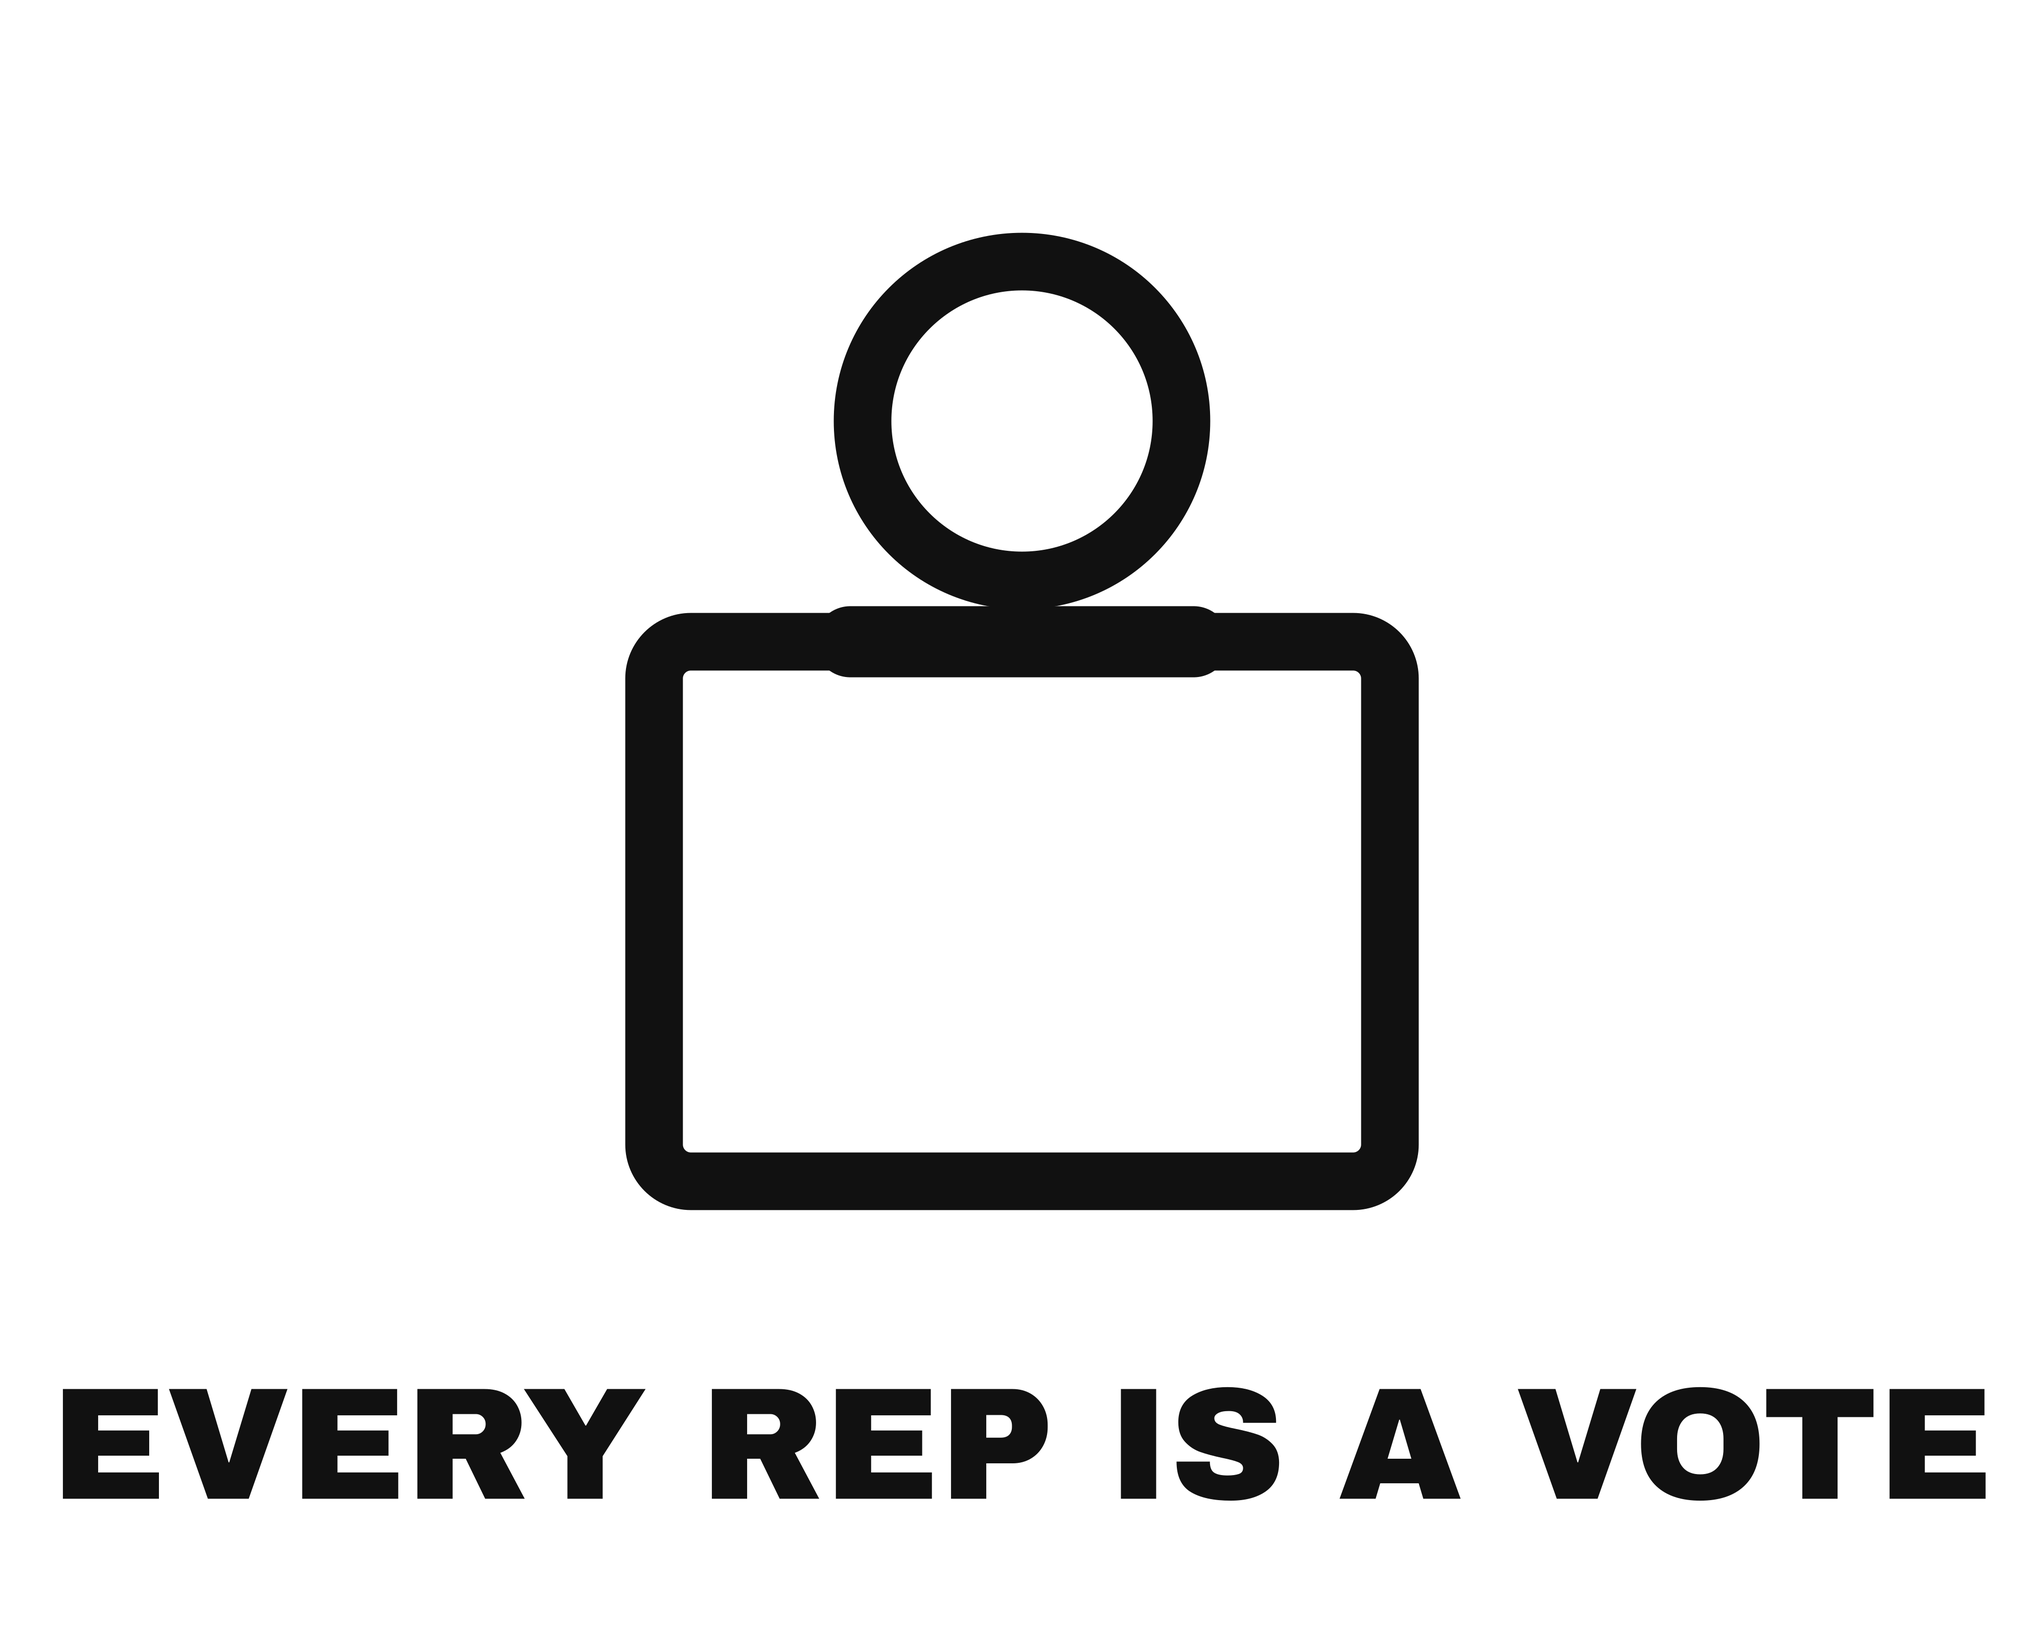
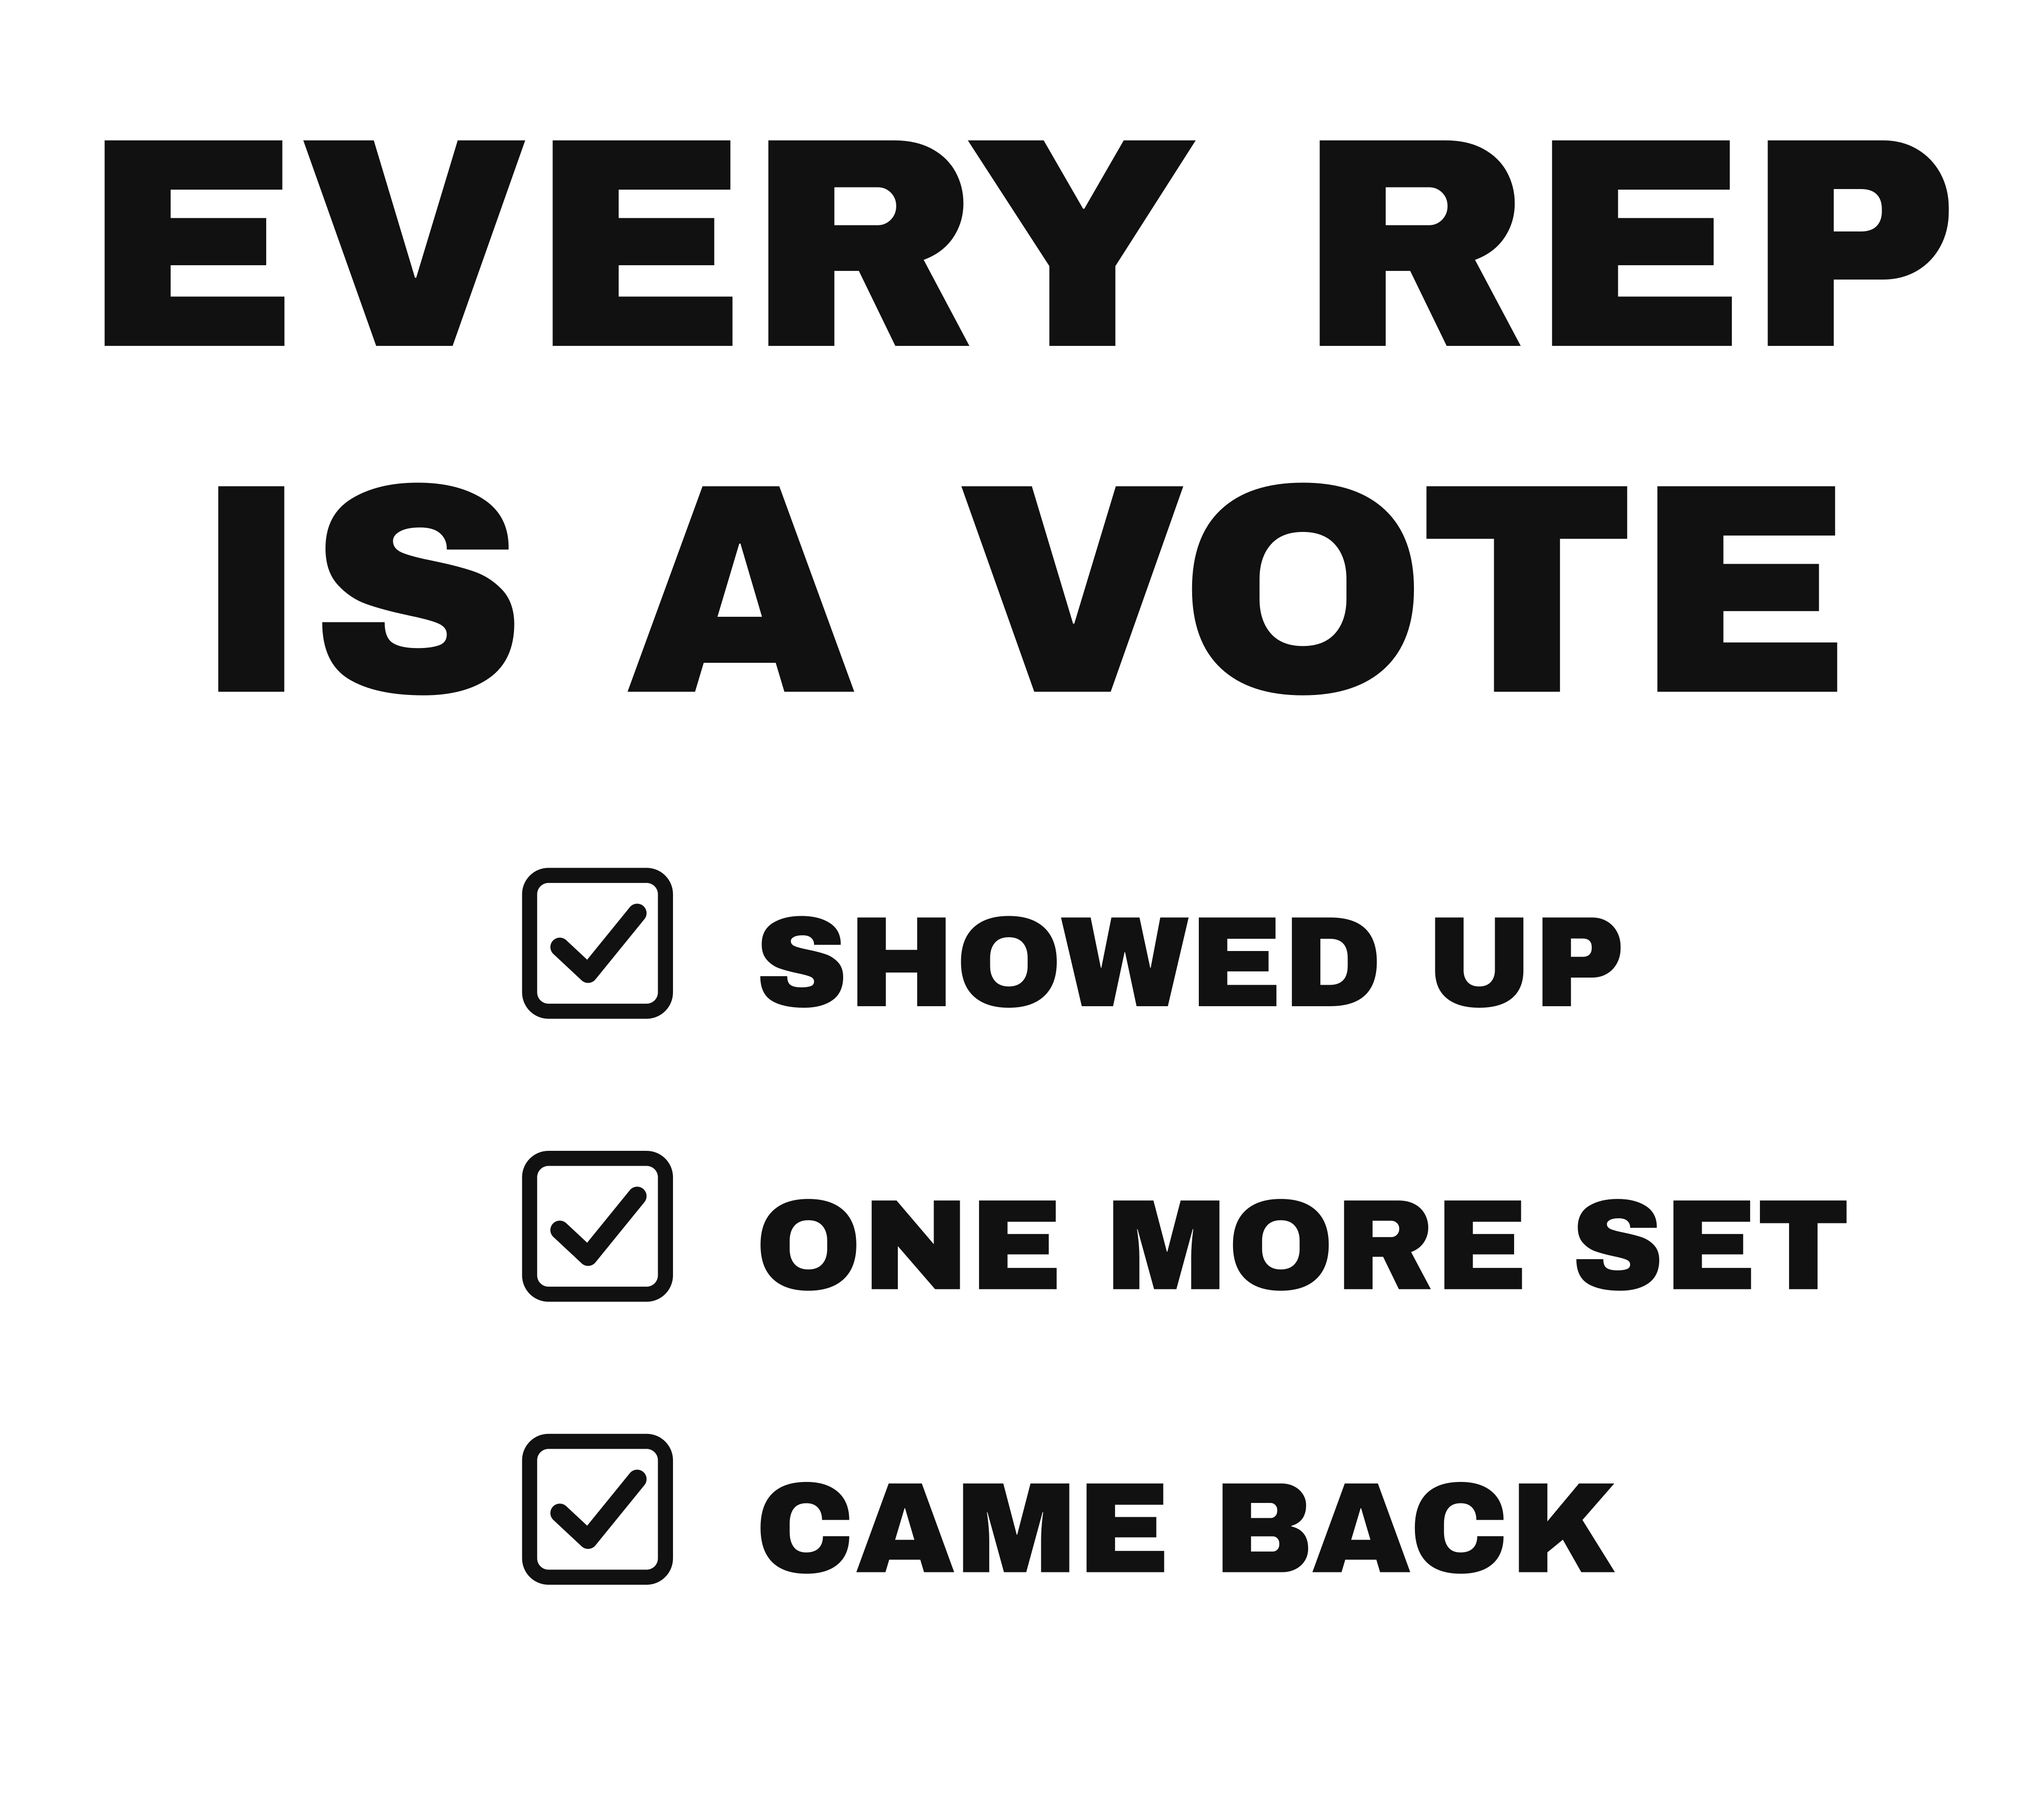
Redraw the two weak backs: the ballot and the bar
EVERY REP IS A VOTE goes type-first with an actual ballot under it,
three boxes checked: SHOWED UP, ONE MORE SET, CAME BACK. NOBODY splits
around a much heavier loaded bar: NOBODY, is going to lift it, the bar,
FOR YOU. The shared bar mark gains weight everywhere it appears. Print
masters regenerated to match.

diff --git a/index.html b/index.html
@@ -40,18 +40,17 @@
         <path d="M26.5 43.5v13 M73.5 43.5v13" stroke-width="5"/>
       </g>
     </g>
-    <!-- INC-018/023 mark: a loaded bar on the floor, drawn in one weight of line -->
+    <!-- INC-018/020/023 mark: a loaded bar on the floor, one heavy line -->
     <g id="barLine" fill="none" stroke="currentColor" stroke-linecap="round">
-      <path d="M12 20 H188" stroke-width="3"/>
-      <path d="M52 6 V34 M148 6 V34" stroke-width="7"/>
-      <path d="M64 9 V31 M136 9 V31" stroke-width="5"/>
-      <path d="M74 14 V26 M126 14 V26" stroke-width="3.5"/>
+      <path d="M12 20 H188" stroke-width="5.5"/>
+      <path d="M52 5 V35 M148 5 V35" stroke-width="11"/>
+      <path d="M65 9 V31 M135 9 V31" stroke-width="8"/>
+      <path d="M76 14 V26 M124 14 V26" stroke-width="5"/>
     </g>
-    <!-- INC-016 mark: the ballot box that takes plates -->
-    <g id="ballot" fill="none" stroke="currentColor" stroke-linecap="round">
-      <circle cx="50" cy="26" r="13" stroke-width="4"/>
-      <path d="M36 44 h28" stroke-width="5"/>
-      <rect x="20" y="44" width="60" height="44" rx="3" stroke-width="4"/>
+    <!-- INC-016 mark: the checked ballot box -->
+    <g id="vcheck" fill="none" stroke="currentColor" stroke-linecap="round" stroke-linejoin="round">
+      <rect x="14" y="14" width="72" height="72" rx="10" stroke-width="8"/>
+      <path d="M30 52 L45 66 L71 34" stroke-width="10"/>
     </g>
   </defs>
 </svg>
@@ -588,8 +587,8 @@
 
     <article class="prod reveal-up" data-view="back" data-sku="INC-016" data-name="EVERY REP IS A VOTE" data-price="38">
       <div class="prod__views">
-        <div class="prod__view prod__view--front"><svg class="tee" viewBox="0 0 400 460" role="img" aria-label="Washed blue tee, front: a ballot box taking a weight plate, on the left chest"><ellipse class="tsh" cx="200" cy="367" rx="156" ry="13"/><image href="assets/shirts/washed-blue_front.webp" x="0" y="0" width="400" height="460"/><g class="pl"><svg x="220.5" y="108.9" width="63.8" height="63.8" viewBox="0 0 100 100" style="color:#f5f4f1"><use href="#ballot"/></svg></g></svg><span class="prod__face" aria-hidden="true">FRONT</span></div>
-        <div class="prod__view prod__view--back"><svg class="tee" viewBox="0 0 400 460" role="img" aria-label="Washed blue tee, back: a large ballot box taking a plate, every rep is a vote beneath"><ellipse class="tsh" cx="200" cy="369" rx="152" ry="13"/><image href="assets/shirts/washed-blue_back.webp" x="0" y="0" width="400" height="460"/><g class="pl"><svg x="156.8" y="112" width="85" height="85" viewBox="0 0 100 100" style="color:#f5f4f1"><use href="#ballot"/></svg><text class="pr" x="199.3" y="226" font-size="12" text-anchor="middle">EVERY REP IS A VOTE</text></g></svg><span class="prod__face" aria-hidden="true">BACK</span></div>
+        <div class="prod__view prod__view--front"><svg class="tee" viewBox="0 0 400 460" role="img" aria-label="Washed blue tee, front: a bold checked ballot box on the left chest with the line beneath"><ellipse class="tsh" cx="200" cy="367" rx="156" ry="13"/><image href="assets/shirts/washed-blue_front.webp" x="0" y="0" width="400" height="460"/><g class="pl"><svg x="223.2" y="111.6" width="58.5" height="58.5" viewBox="0 0 100 100" style="color:#f5f4f1"><use href="#vcheck"/></svg><text class="pr" x="252.4" y="182" font-size="5.5" letter-spacing="0.5" text-anchor="middle">EVERY REP IS A VOTE</text></g></svg><span class="prod__face" aria-hidden="true">FRONT</span></div>
+        <div class="prod__view prod__view--back"><svg class="tee" viewBox="0 0 400 460" role="img" aria-label="Washed blue tee, back: EVERY REP IS A VOTE in heavy type over a ballot of three checked boxes"><ellipse class="tsh" cx="200" cy="369" rx="152" ry="13"/><image href="assets/shirts/washed-blue_back.webp" x="0" y="0" width="400" height="460"/><g class="pl"><text class="pr" x="199.3" y="128" font-size="23" text-anchor="middle">EVERY REP</text><text class="pr" x="199.3" y="158" font-size="23" text-anchor="middle">IS A VOTE</text><svg x="146.3" y="178" width="14" height="14" viewBox="0 0 100 100" style="color:#f5f4f1"><use href="#vcheck"/></svg><text class="pr" x="166.3" y="189" font-size="10.5">SHOWED UP</text><svg x="146.3" y="200" width="14" height="14" viewBox="0 0 100 100" style="color:#f5f4f1"><use href="#vcheck"/></svg><text class="pr" x="166.3" y="211" font-size="10.5">ONE MORE SET</text><svg x="146.3" y="222" width="14" height="14" viewBox="0 0 100 100" style="color:#f5f4f1"><use href="#vcheck"/></svg><text class="pr" x="166.3" y="233" font-size="10.5">CAME BACK</text></g></svg><span class="prod__face" aria-hidden="true">BACK</span></div>
         <div class="prod__flip" role="group" aria-label="View side">
           <button type="button" data-face="front" aria-pressed="false">FRONT</button>
           <button class="is-on" type="button" data-face="back" aria-pressed="true">BACK</button>
@@ -600,8 +599,8 @@
         <h3 class="prod__name">EVERY REP IS A VOTE</h3>
         <p class="prod__why">You don&rsquo;t vote once a year in here. Every rep counts toward who you&rsquo;re becoming.</p>
         <ul class="prod__spec">
-      <li><b>FRONT</b>ballot &amp; plate mark &middot; left chest &middot; 6&#8243;</li>
-      <li><b>BACK</b>the mark &middot; 8&#8243; &middot; the line beneath</li>
+      <li><b>FRONT</b>checked-box mark &middot; left chest &middot; 5.5&#8243;</li>
+      <li><b>BACK</b>the line &middot; 13&#8243; &middot; three votes checked beneath</li>
         </ul>
         <div class="prod__size" role="group" aria-label="Choose size"><button type="button" aria-pressed="false">S</button><button type="button" aria-pressed="true" class="is-on">M</button><button type="button" aria-pressed="false">L</button><button type="button" aria-pressed="false">XL</button><button type="button" aria-pressed="false">2X</button><button type="button" aria-pressed="false">3X</button></div>
         <div class="prod__foot">
@@ -638,8 +637,8 @@
 
     <article class="prod reveal-up" data-view="back" data-sku="INC-018" data-name="NOBODY IS GOING TO LIFT IT FOR YOU" data-price="38">
       <div class="prod__views">
-        <div class="prod__view prod__view--front"><svg class="tee" viewBox="0 0 400 460" role="img" aria-label="Washed blue tee, front: a small line drawing of a loaded barbell over the heart"><ellipse class="tsh" cx="200" cy="367" rx="156" ry="13"/><image href="assets/shirts/washed-blue_front.webp" x="0" y="0" width="400" height="460"/><g class="pl"><svg x="222.4" y="131" width="60" height="12" viewBox="0 0 200 40" style="color:#f5f4f1"><use href="#barLine"/></svg></g></svg><span class="prod__face" aria-hidden="true">FRONT</span></div>
-        <div class="prod__view prod__view--back"><svg class="tee" viewBox="0 0 400 460" role="img" aria-label="Washed blue tee, back: a loaded barbell in one line, nobody is going to lift it for you beneath"><ellipse class="tsh" cx="200" cy="369" rx="152" ry="13"/><image href="assets/shirts/washed-blue_back.webp" x="0" y="0" width="400" height="460"/><g class="pl"><svg x="134.3" y="126" width="130" height="26" viewBox="0 0 200 40" style="color:#f5f4f1"><use href="#barLine"/></svg><text class="pr" x="199.3" y="182" font-size="13" text-anchor="middle">NOBODY IS GOING</text><text class="pr" x="199.3" y="200" font-size="13" text-anchor="middle">TO LIFT IT</text><text class="pr" x="199.3" y="218" font-size="13" text-anchor="middle">FOR YOU.</text></g></svg><span class="prod__face" aria-hidden="true">BACK</span></div>
+        <div class="prod__view prod__view--front"><svg class="tee" viewBox="0 0 400 460" role="img" aria-label="Washed blue tee, front: a heavy line drawing of a loaded barbell over the heart"><ellipse class="tsh" cx="200" cy="367" rx="156" ry="13"/><image href="assets/shirts/washed-blue_front.webp" x="0" y="0" width="400" height="460"/><g class="pl"><svg x="216.4" y="133.6" width="72" height="14.4" viewBox="0 0 200 40" style="color:#f5f4f1"><use href="#barLine"/></svg></g></svg><span class="prod__face" aria-hidden="true">FRONT</span></div>
+        <div class="prod__view prod__view--back"><svg class="tee" viewBox="0 0 400 460" role="img" aria-label="Washed blue tee, back: NOBODY IS GOING TO LIFT IT above a heavy loaded bar, FOR YOU below it"><ellipse class="tsh" cx="200" cy="369" rx="152" ry="13"/><image href="assets/shirts/washed-blue_back.webp" x="0" y="0" width="400" height="460"/><g class="pl"><text class="pr" x="199.3" y="130" font-size="28" text-anchor="middle">NOBODY</text><text class="pr" x="199.3" y="152" font-size="12.5" letter-spacing="0.5" text-anchor="middle">IS GOING TO LIFT IT</text><svg x="124.3" y="166" width="150" height="30" viewBox="0 0 200 40" style="color:#f5f4f1"><use href="#barLine"/></svg><text class="pr" x="199.3" y="234" font-size="22" text-anchor="middle">FOR YOU.</text></g></svg><span class="prod__face" aria-hidden="true">BACK</span></div>
         <div class="prod__flip" role="group" aria-label="View side">
           <button type="button" data-face="front" aria-pressed="false">FRONT</button>
           <button class="is-on" type="button" data-face="back" aria-pressed="true">BACK</button>
@@ -650,8 +649,8 @@
         <h3 class="prod__name">NOBODY IS GOING TO LIFT IT FOR YOU</h3>
         <p class="prod__why">The bar is on the floor and it&rsquo;s staying there until you pick it up. That&rsquo;s the whole deal.</p>
         <ul class="prod__spec">
-      <li><b>FRONT</b>bar-on-the-floor mark &middot; over the heart &middot; 6&#8243;</li>
-      <li><b>BACK</b>the bar &middot; 12.5&#8243; &middot; the line stacked beneath</li>
+      <li><b>FRONT</b>bar-on-the-floor mark &middot; over the heart &middot; 7&#8243;</li>
+      <li><b>BACK</b>NOBODY over the bar, FOR YOU. under it &middot; 14&#8243;</li>
         </ul>
         <div class="prod__size" role="group" aria-label="Choose size"><button type="button" aria-pressed="false">S</button><button type="button" aria-pressed="true" class="is-on">M</button><button type="button" aria-pressed="false">L</button><button type="button" aria-pressed="false">XL</button><button type="button" aria-pressed="false">2X</button><button type="button" aria-pressed="false">3X</button></div>
         <div class="prod__foot">
